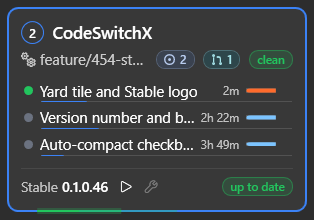
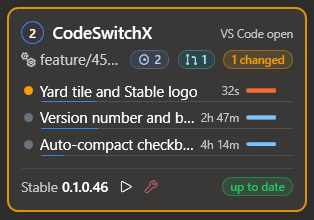
feat: a stable row's button that cannot be pressed is red and says why on hover (#454)

diff --git a/src/CodeSwitchX.UI/Yard/YardView.xaml b/src/CodeSwitchX.UI/Yard/YardView.xaml
@@ -130,8 +130,9 @@
          green when clean, amber with uncommitted changes, none when git could not tell -->
     <!-- GitLineTemplate is in App.xaml: Raven's chat header shows the same lines. -->
 
-    <!-- A stable row's Run and Build buttons (#454): a glyph on a quiet square that lights up under the mouse, faint when greyed; the
-         tooltip says why on a greyed one. The text colour is set: a style of its own leaves the theme's button colours behind. -->
+    <!-- A stable row's Run and Build buttons (#454): a glyph on a quiet square that lights up under the mouse, a little dimmed when disabled; the
+         tooltip says why on one that cannot be pressed, which is red. The text colour is set: a style of its own leaves the theme's button colours behind. -->
+    <SolidColorBrush x:Key="StableRowBlocked" Color="#F87171" />
     <Style x:Key="StableRowButton" TargetType="Button">
       <Setter Property="Width" Value="22" />
       <Setter Property="Height" Value="20" />
@@ -154,7 +155,7 @@
                 <Setter TargetName="Face" Property="Background" Value="#22FFFFFF" />
               </Trigger>
               <Trigger Property="IsEnabled" Value="False">
-                <Setter TargetName="Face" Property="Opacity" Value="0.35" />
+                <Setter TargetName="Face" Property="Opacity" Value="0.8" />
                 <Setter Property="Cursor" Value="Arrow" />
               </Trigger>
             </ControlTemplate.Triggers>
@@ -333,13 +334,40 @@
                            such a press does nothing; a live button shows its own hand. -->
                       <StackPanel DockPanel.Dock="Right" Orientation="Horizontal" Background="Transparent" Cursor="Arrow" VerticalAlignment="Center"
                                   MouseLeftButtonDown="OnStableButtonsMouseDown" Visibility="{Binding Buttons, Converter={StaticResource NullToCollapsed}}">
-                        <Button Style="{StaticResource StableRowButton}" Content="&#xE768;"
-                                Command="{Binding DataContext.RunStableCommand, RelativeSource={RelativeSource AncestorType=ItemsControl}}" CommandParameter="{Binding}"
-                                IsEnabled="{Binding Buttons.CanRun}" ToolTip="{Binding Buttons.RunToolTip}" AutomationProperties.Name="{Binding Buttons.RunName}"
-                                Visibility="{Binding Buttons.HasRun, Converter={StaticResource BoolVisible}}" />
-                        <Button Style="{StaticResource StableRowButton}" Content="&#xE90F;"
-                                Command="{Binding DataContext.BuildStableCommand, RelativeSource={RelativeSource AncestorType=ItemsControl}}" CommandParameter="{Binding}"
-                                IsEnabled="{Binding Buttons.CanBuild}" ToolTip="{Binding Buttons.BuildToolTip}" AutomationProperties.Name="{Binding Buttons.BuildName}" />
+                        <!-- A button that cannot be pressed is red, not faint, and says why on hover: a faint one that did nothing on a click
+                             was taken for a bug (#454). Red by the row's state, not by IsEnabled: a press under way greys the button too.
+                             The tooltip also on a border around it, which is never disabled, so the reason shows over the row's own tooltip. -->
+                        <Border Background="Transparent" ToolTip="{Binding Buttons.RunToolTip}"
+                                Visibility="{Binding Buttons.HasRun, Converter={StaticResource BoolVisible}}">
+                          <Button Content="&#xE768;"
+                                  Command="{Binding DataContext.RunStableCommand, RelativeSource={RelativeSource AncestorType=ItemsControl}}" CommandParameter="{Binding}"
+                                  IsEnabled="{Binding Buttons.CanRun}" ToolTip="{Binding Buttons.RunToolTip}" AutomationProperties.Name="{Binding Buttons.RunName}">
+                            <Button.Style>
+                              <Style TargetType="Button" BasedOn="{StaticResource StableRowButton}">
+                                <Style.Triggers>
+                                  <DataTrigger Binding="{Binding Buttons.CanRun}" Value="False">
+                                    <Setter Property="Foreground" Value="{StaticResource StableRowBlocked}" />
+                                  </DataTrigger>
+                                </Style.Triggers>
+                              </Style>
+                            </Button.Style>
+                          </Button>
+                        </Border>
+                        <Border Background="Transparent" ToolTip="{Binding Buttons.BuildToolTip}">
+                          <Button Content="&#xE90F;"
+                                  Command="{Binding DataContext.BuildStableCommand, RelativeSource={RelativeSource AncestorType=ItemsControl}}" CommandParameter="{Binding}"
+                                  IsEnabled="{Binding Buttons.CanBuild}" ToolTip="{Binding Buttons.BuildToolTip}" AutomationProperties.Name="{Binding Buttons.BuildName}">
+                            <Button.Style>
+                              <Style TargetType="Button" BasedOn="{StaticResource StableRowButton}">
+                                <Style.Triggers>
+                                  <DataTrigger Binding="{Binding Buttons.CanBuild}" Value="False">
+                                    <Setter Property="Foreground" Value="{StaticResource StableRowBlocked}" />
+                                  </DataTrigger>
+                                </Style.Triggers>
+                              </Style>
+                            </Button.Style>
+                          </Button>
+                        </Border>
                       </StackPanel>
                       <TextBlock DockPanel.Dock="Right" Text="{Binding Status.Version}" FontSize="13" FontWeight="SemiBold" Margin="0,0,4,0" VerticalAlignment="Center"
                                  Visibility="{Binding Status.Version, Converter={StaticResource NullToCollapsed}}" />
